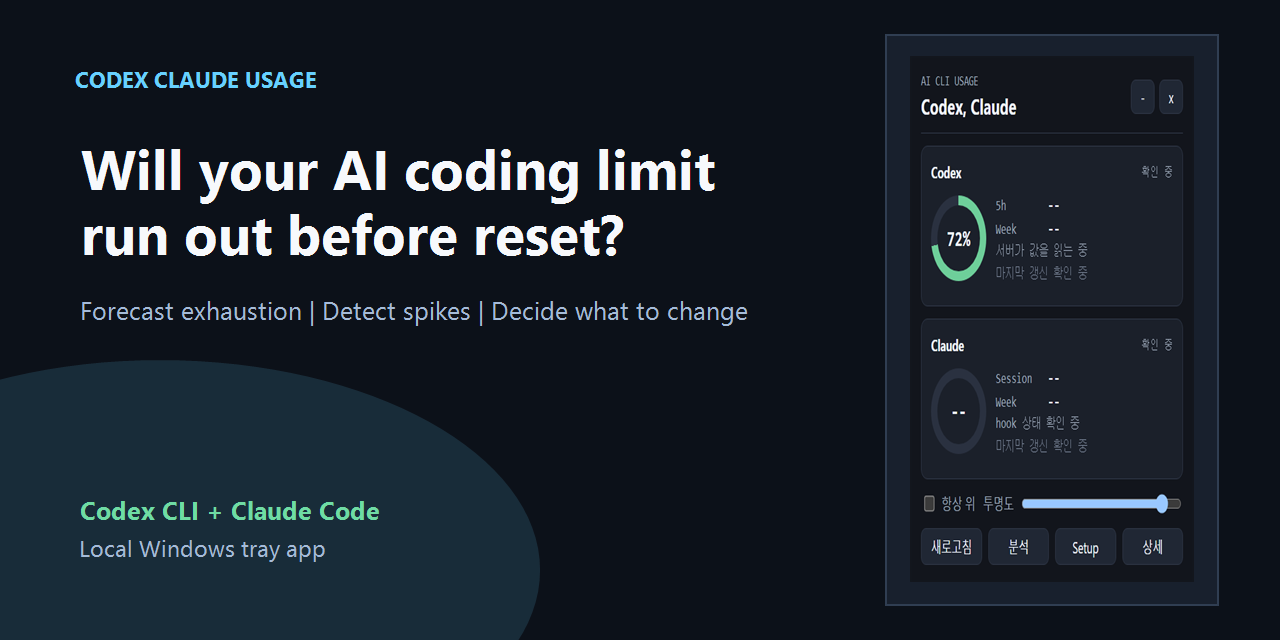
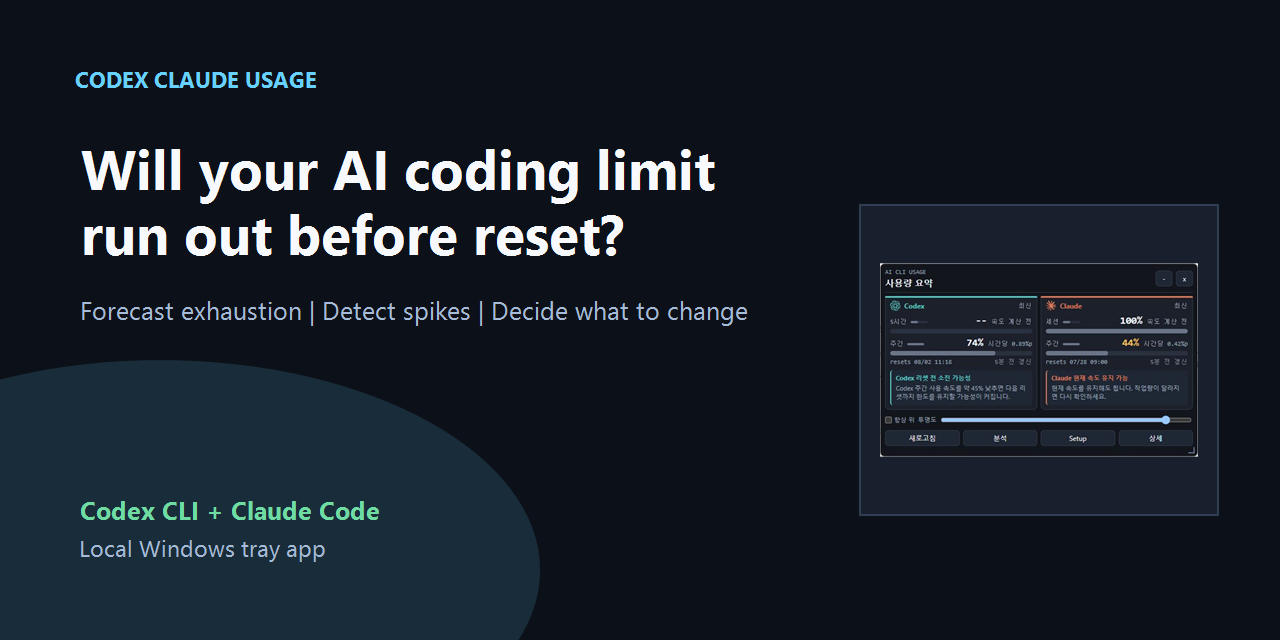
docs(readme): refresh screenshots for redesigned UI

diff --git a/README.md b/README.md
@@ -108,8 +108,8 @@ See [PRIVACY.md](docs/PRIVACY.md) for the complete data and network inventory.
     <th width="60%">Setup and health</th>
   </tr>
   <tr>
-    <td align="center"><img src="docs/images/app-compact.png" alt="Compact window showing Codex and Claude remaining quota"></td>
-    <td align="center"><img src="docs/images/app-setup.png" alt="Setup screen showing CLI, login, hook, and startup status"></td>
+    <td align="center"><img src="docs/images/app-compact.png" alt="Compact side-by-side Codex and Claude usage dashboard" width="100%"></td>
+    <td align="center"><img src="docs/images/app-setup.png" alt="Setup screen with provider connections, theme, and language controls" width="100%"></td>
   </tr>
   <tr>
     <td>See remaining quota, reset time, and connection status in a small window.</td>

diff --git a/docs/README.ko.md b/docs/README.ko.md
@@ -85,8 +85,8 @@
     <th width="60%">초기 설정과 상태 확인</th>
   </tr>
   <tr>
-    <td align="center"><img src="images/app-compact.png" alt="Codex Claude Usage 간단 보기 화면"></td>
-    <td align="center"><img src="images/app-setup.png" alt="Codex Claude Usage 설정 화면"></td>
+    <td align="center"><img src="images/app-compact.png" alt="Codex와 Claude를 좌우로 비교하는 사용량 요약 화면" width="100%"></td>
+    <td align="center"><img src="images/app-setup.png" alt="도구 연결, 테마, 언어를 설정하는 화면" width="100%"></td>
   </tr>
   <tr>
     <td>남은 한도, 리셋 시각과 연결 상태를 작은 창에서 확인합니다.</td>
